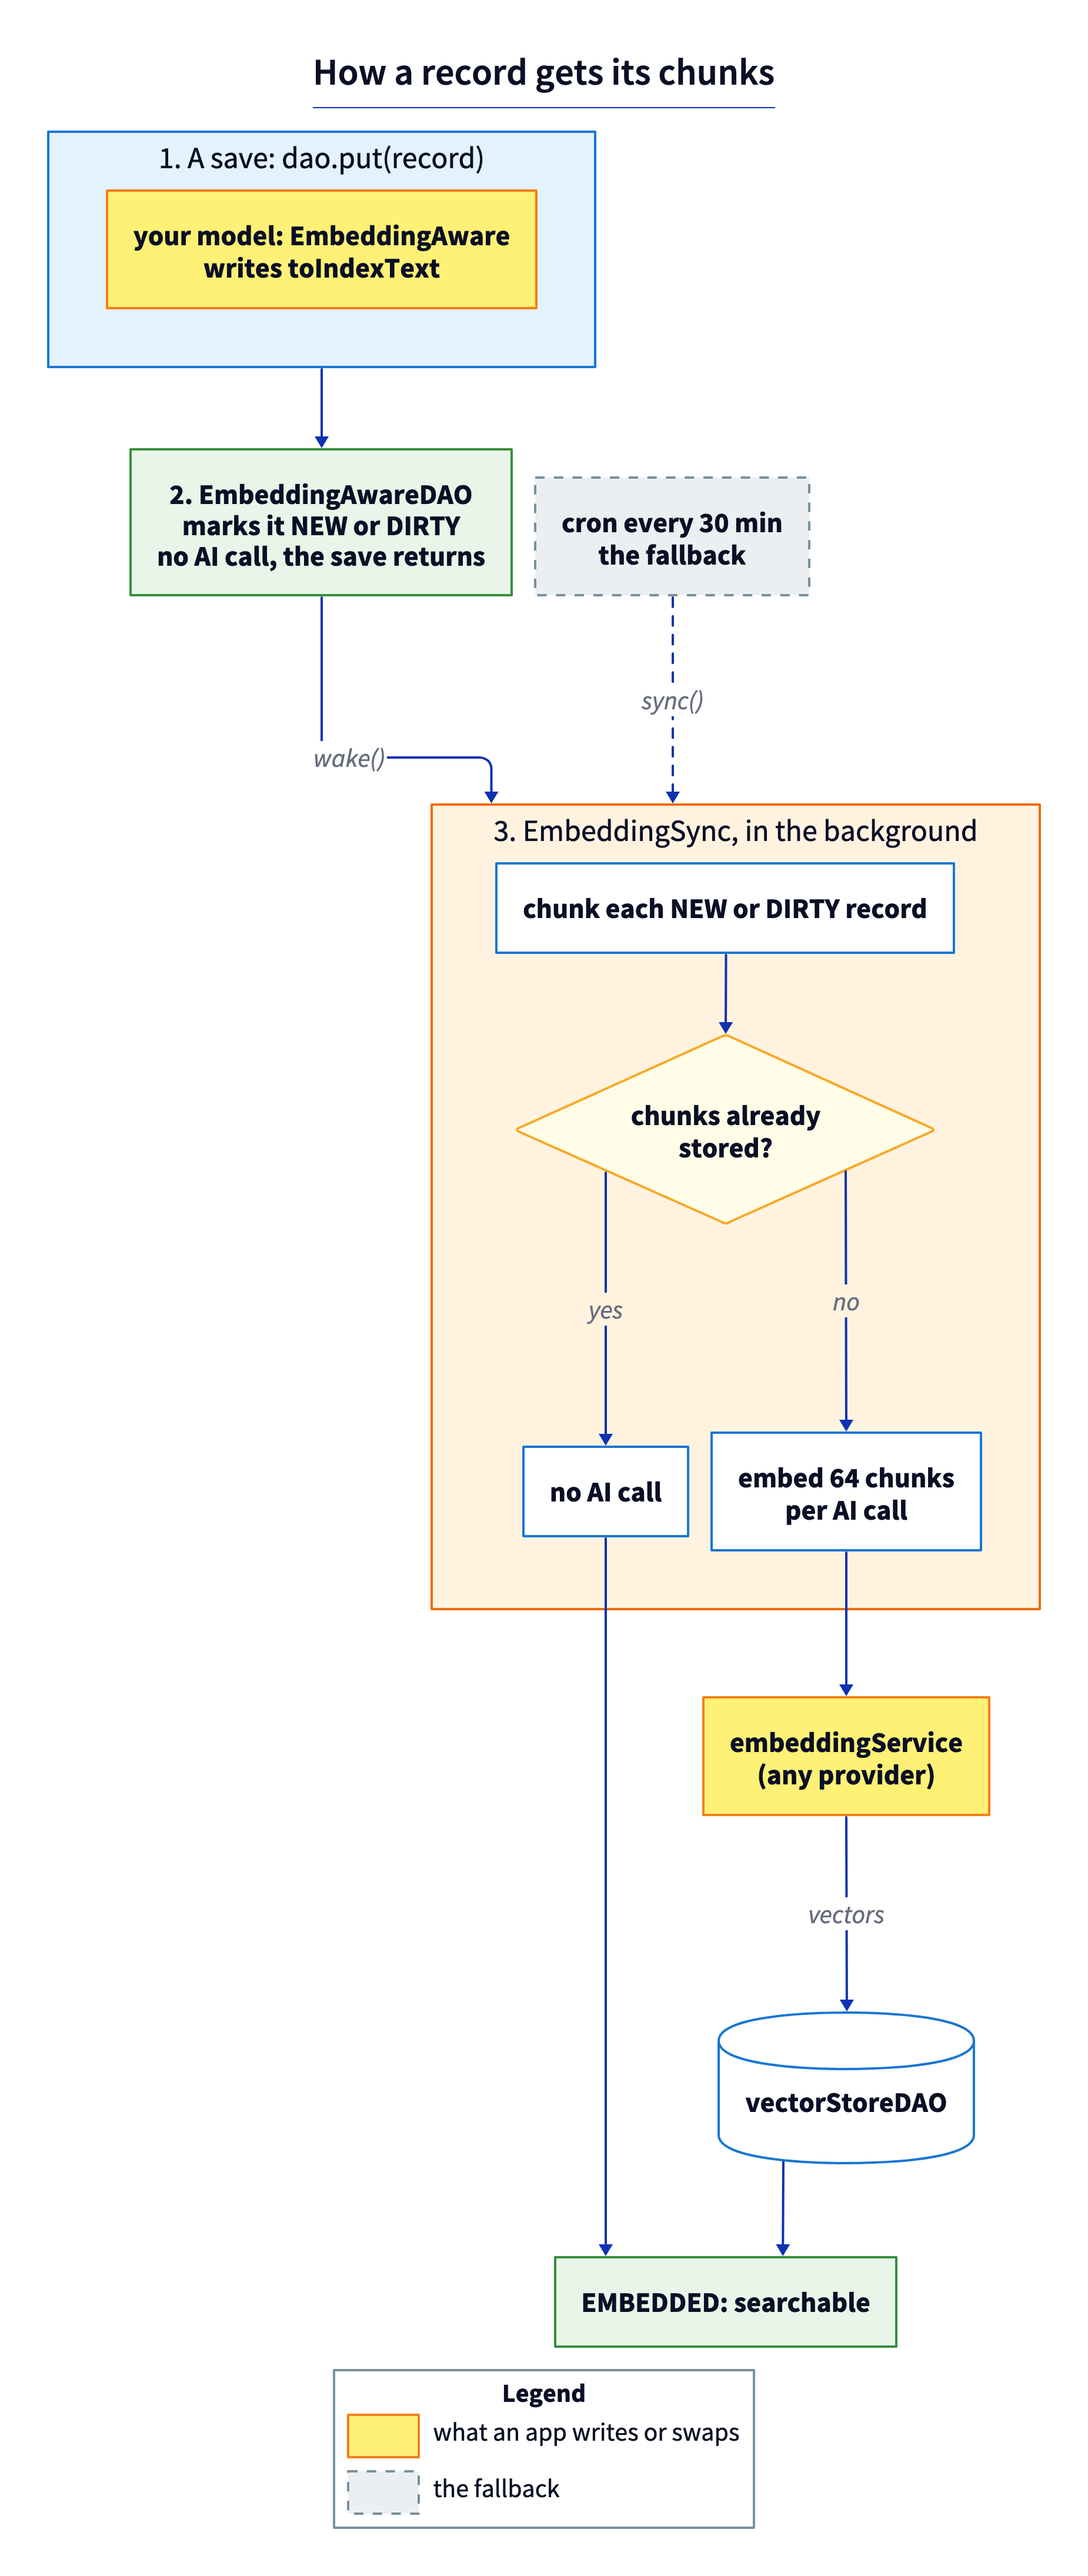
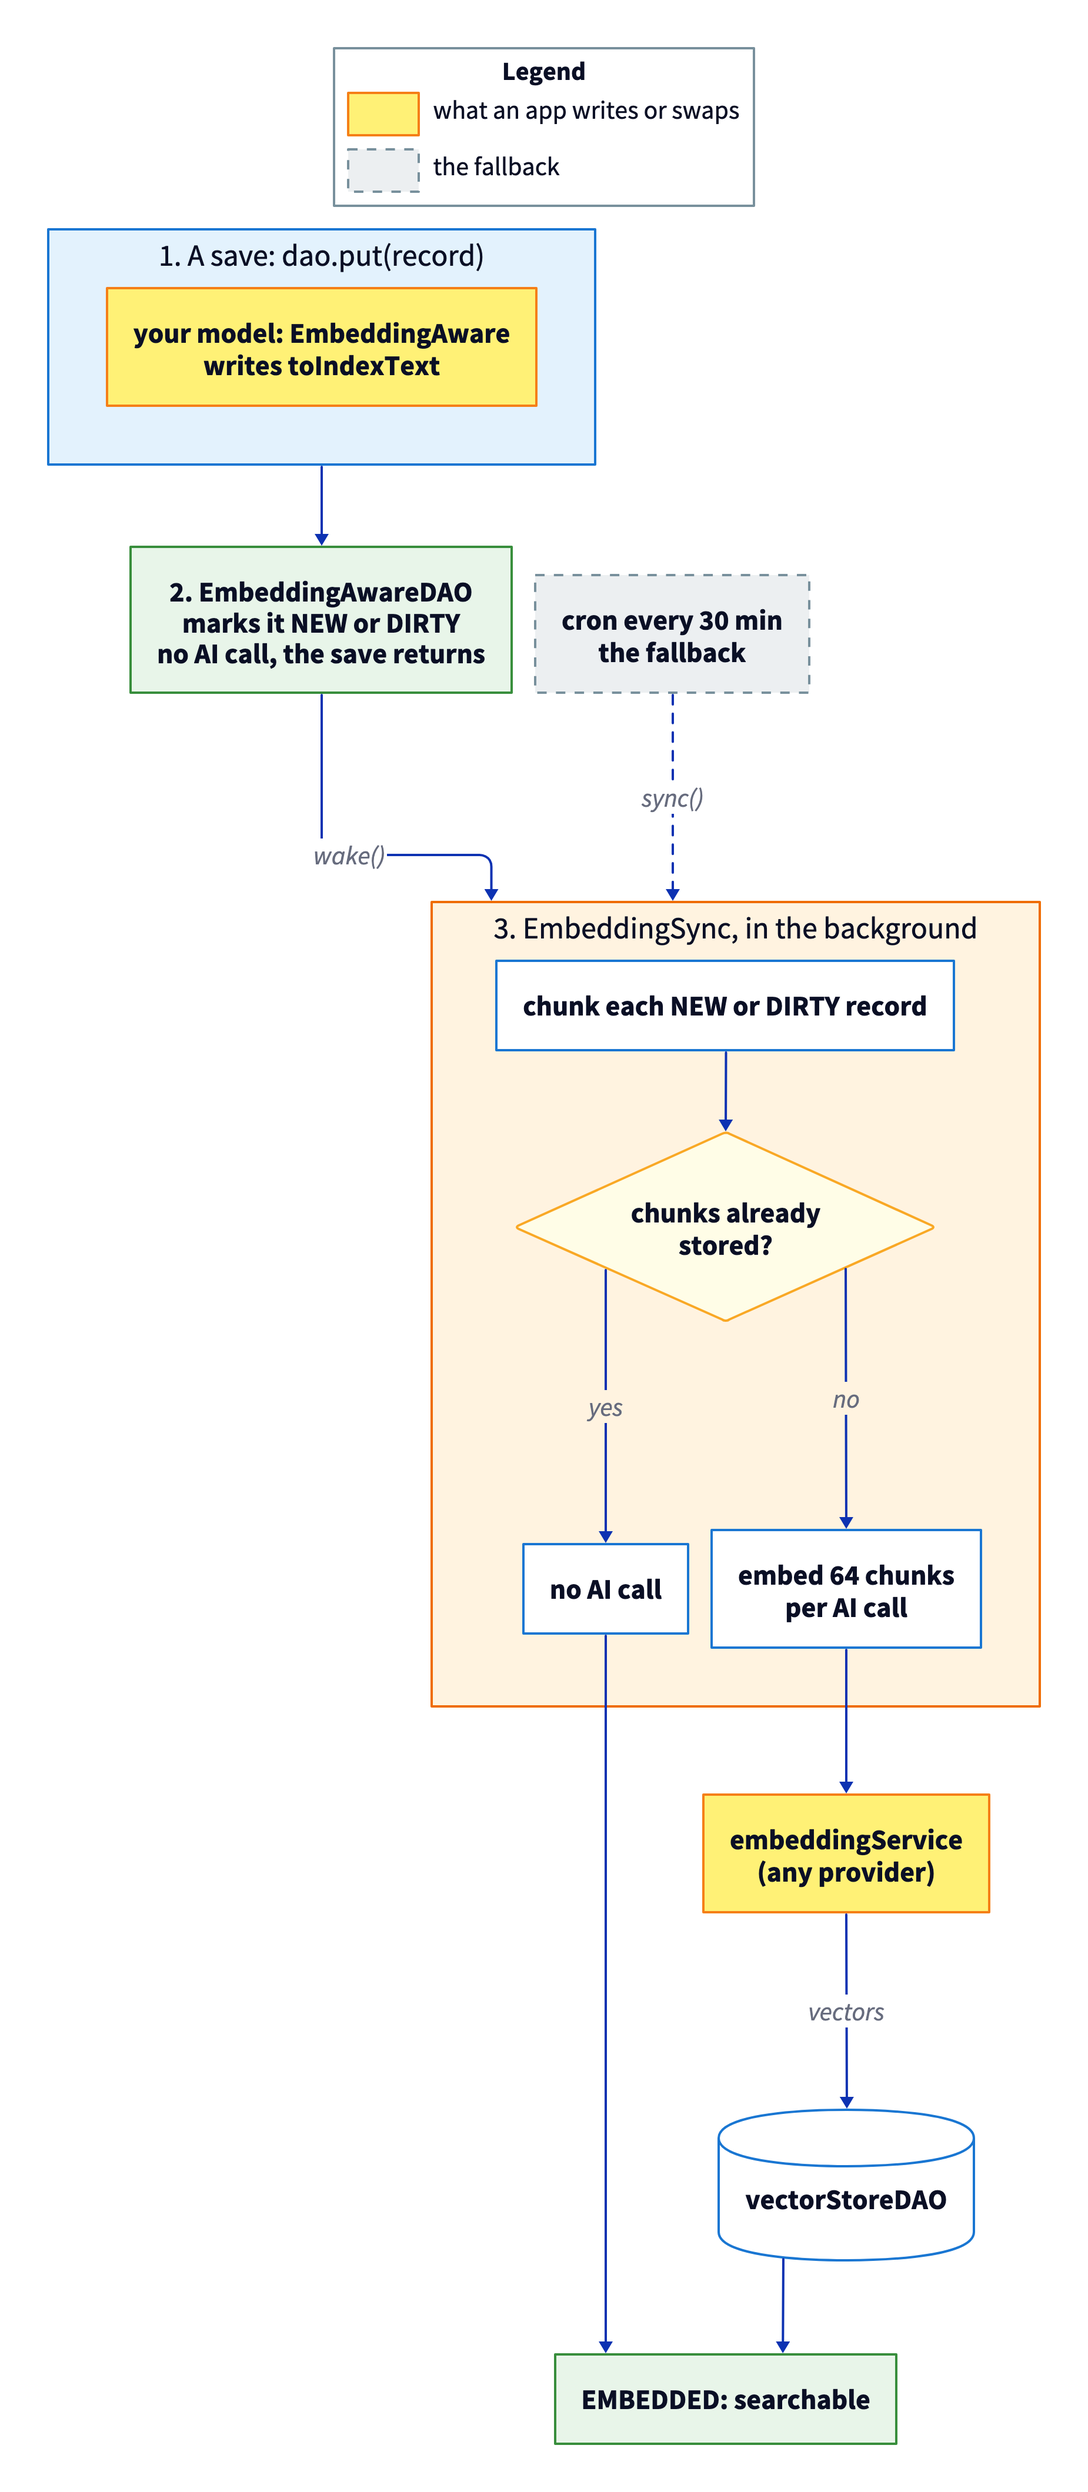
PT-FIXES:DOS-5676 docs(ai): put the legend first in the Embeddings design pictures

Changed region(s): [[0.3081, 0.3115, 0.9551, 0.9967], [0.0308, 0.0, 0.7086, 0.3115], [0.4622, 0.2492, 0.493, 0.2803]]

diff --git a/doc/architecture/Embeddings.md b/doc/architecture/Embeddings.md
@@ -56,6 +56,8 @@ stateDiagram-v2
 
 ## 4. Components
 
+Where an app can extend, one row per layer, from a saved record (1) to an answer (9):
+
 ![Where an app can extend: one row per layer](images/embeddings-extension-points.png)
 
 | Component | Role | File |
